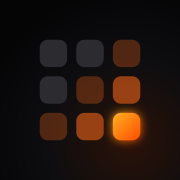
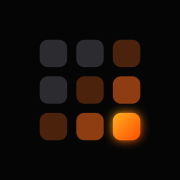
Иконка рабочего стола на ровном фоне — без круга на заставке Xiaomi/Android 12+
Android 12+ показывает на заставке иконку рабочего стола в круге; фон иконки
теперь точно совпадает с цветом заставки (#050506).

Claude-Session: https://claude.ai/code/session_01EMMMqcj387eyrvcKsXWeBZ

Changed region(s): [[0.5, 0.5833, 0.9444, 1.0]]

diff --git a/public/sw.js b/public/sw.js
@@ -3,7 +3,7 @@
 // - /assets/* (файлы с отпечатком версии в имени): из кэша, они никогда не меняются.
 // - Прочие свои файлы (иконки, манифест): из кэша с фоновым обновлением.
 // - Чужие домены (Supabase и т. п.) не трогаем.
-const CACHE_NAME = 'habits-v5';
+const CACHE_NAME = 'habits-v6';
 const PRECACHE = ['/', '/manifest.json', '/icon-192.png', '/icon-512.png', '/icon-maskable-192.png', '/icon-maskable-512.png'];
 
 self.addEventListener('install', (event) => {
